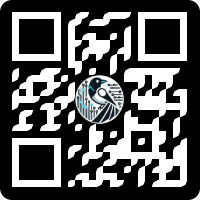
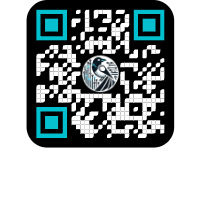
fix: qr code and centered layout

diff --git a/business-card/front.html b/business-card/front.html
@@ -12,7 +12,11 @@
     }
     body {
       margin: 0;
-      background-color: #ccc;
+      background-color: #101214;
+      display: flex;
+      justify-content: center;
+      align-items: center;
+      min-height: 100vh;
     }
     .card {
       --bg-color: #101214;
@@ -27,10 +31,12 @@
       display: flex;
       flex-direction: row;
       box-sizing: border-box;
+      border: 1px solid #181A1D;
+      border-radius: 3mm;
     }
 
     .card-left {
-      background-color: #181A1D;
+      /* background-color: #181A1D; */ /* Removed to inherit from .card */
       display: flex;
       flex-direction: column;
       align-items: center;

diff --git a/business-card/back.html b/business-card/back.html
@@ -12,7 +12,11 @@
     }
     body {
       margin: 0;
-      background-color: #ccc;
+      background-color: #101214;
+      display: flex;
+      justify-content: center;
+      align-items: center;
+      min-height: 100vh;
     }
     .card-back {
       width: 85mm;
@@ -27,6 +31,8 @@
       text-align: center;
       padding: 6mm;
       box-sizing: border-box;
+      border: 1px solid #181A1D;
+      border-radius: 3mm;
     }
     .info {
       font-size: 9pt;
